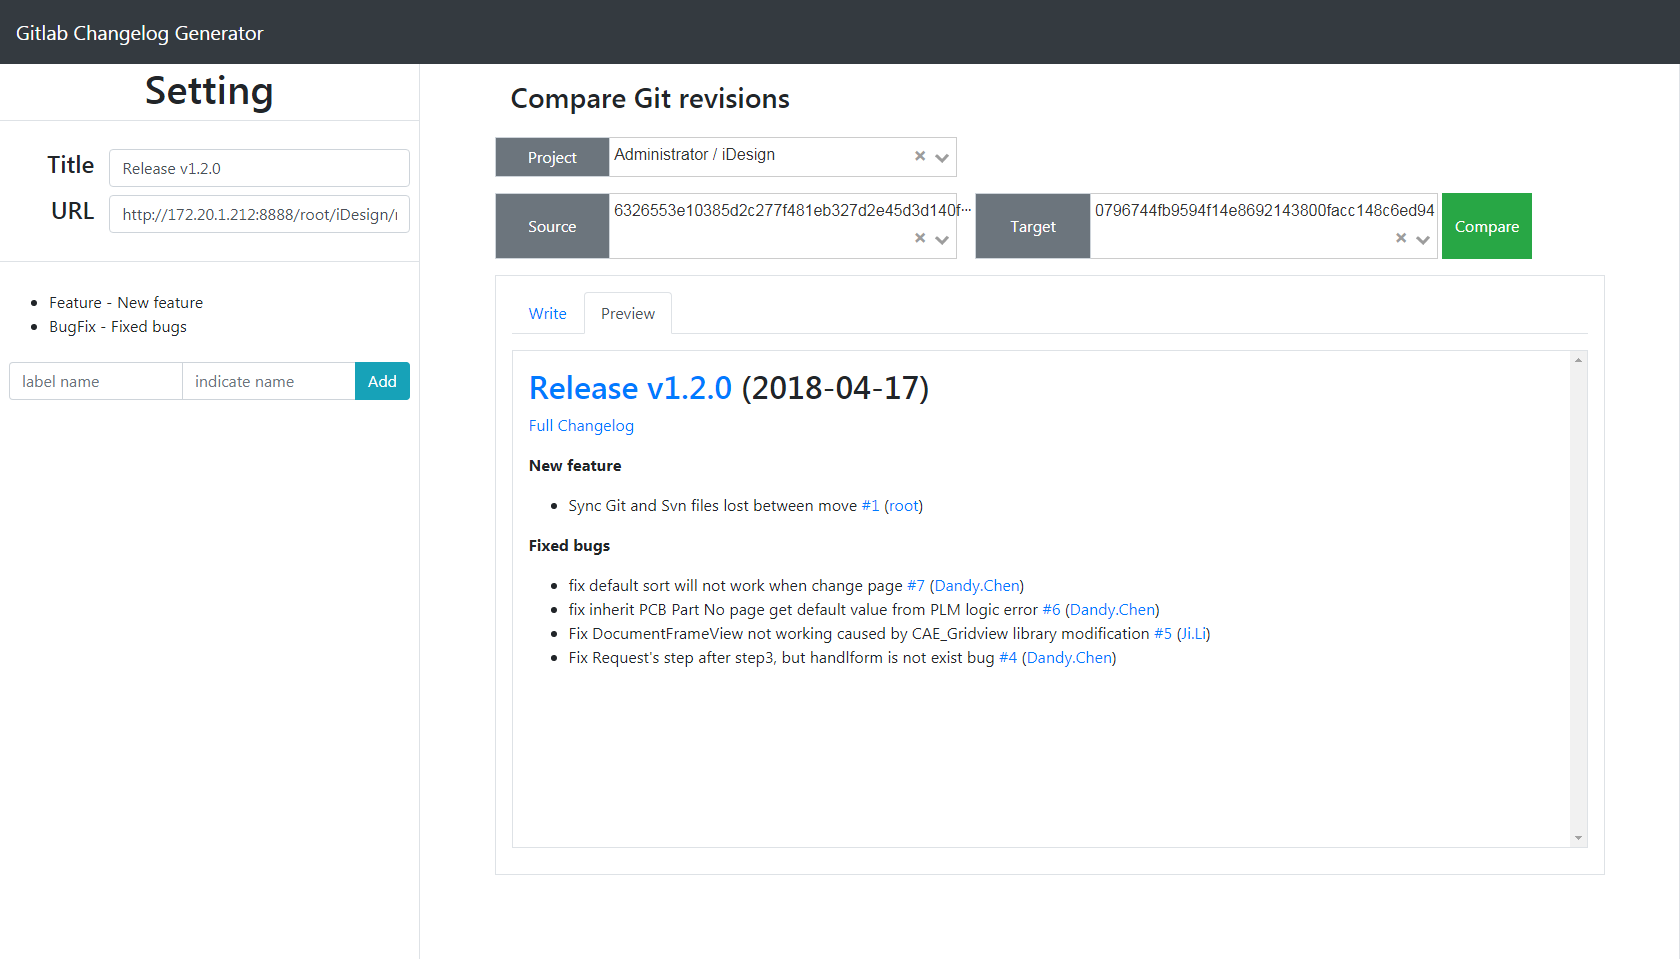
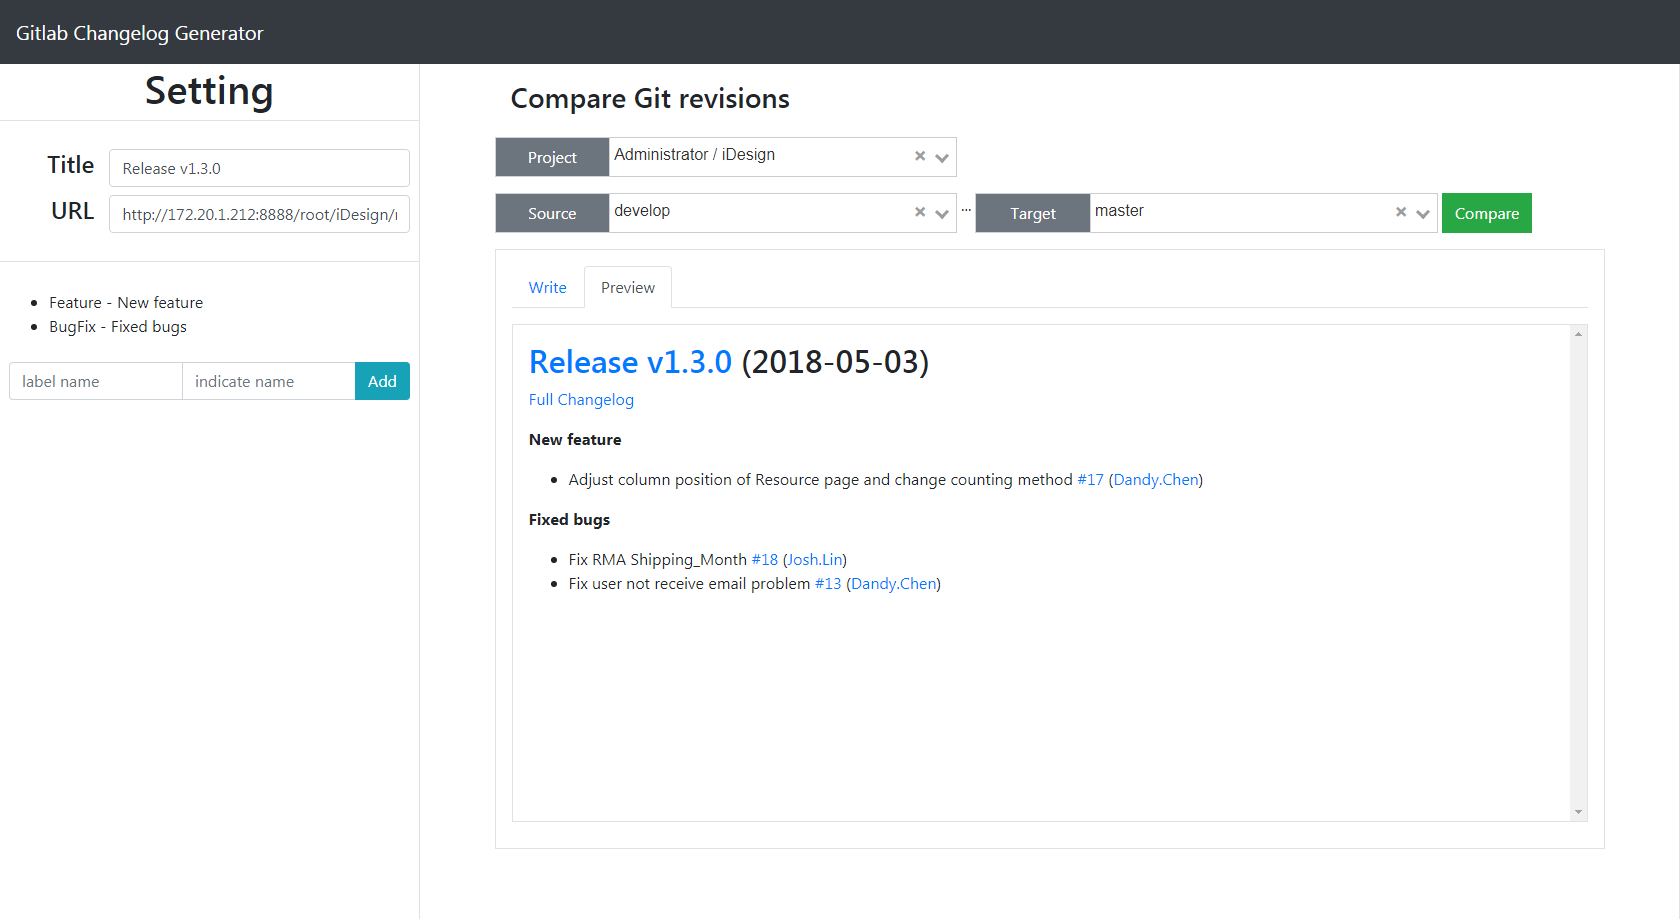
update README.md

diff --git a/README.md b/README.md
@@ -5,17 +5,15 @@ Generate gitlab release changlog
 
 ## Output example
 
-> ## [Release v1.2.0](https://github.com/ro1963855/gitlab-changelog-generator) (2018-04-17)
-> [Full Changelog](http://172.20.1.212:8888/root/iDesign/compare/6326553e10385d2c277f481eb327d2e45d3d140f...0796744fb9594f14e8692143800facc148c6ed94)
->
+> ## [Release v1.3.0](http://172.20.1.212:8888/root/iDesign/merge_requests/24) (2018-05-03)
+> [Full Changelog](http://172.20.1.212:8888/root/iDesign/compare/8321554fe6a514f3973a4ea71384272359878aeb...64cca9babea9fbd963373a9cc96b0281507db098)
+> 
 > **New feature**
-> - Sync Git and Svn files lost between move [#1](http://172.20.1.212:8888/root/iDesign/issues/1) ([root](http://172.20.1.212:8888/root))
->
+> - Adjust column position of Resource page and change counting method [#17](http://172.20.1.212:8888/root/iDesign/issues/17) ([Dandy.Chen](http://172.20.1.212:8888/Dandy.Chen))
+> 
 > **Fixed bugs**
-> - fix default sort will not work when change page [#7](http://172.20.1.212:8888/root/iDesign/issues/7) ([Dandy.Chen](http://172.20.1.212:8888/Dandy.Chen))
-> - fix inherit PCB Part No page get default value from PLM logic error [#6](http://172.20.1.212:8888/root/iDesign/issues/6) ([Dandy.Chen](http://172.20.1.212:8888/Dandy.Chen))
-> - Fix DocumentFrameView not working caused by CAE_Gridview library modification [#5](http://172.20.1.212:8888/root/iDesign/issues/5) ([Ji.Li](http://172.20.1.212:8888/Ji.Li))
-> - Fix Request's step after step3, but handlform is not exist bug [#4](http://172.20.1.212:8888/root/iDesign/issues/4) ([Dandy.Chen](http://172.20.1.212:8888/Dandy.Chen))
+> - Fix RMA Shipping_Month [#18](http://172.20.1.212:8888/root/iDesign/issues/18) ([Josh.Lin](http://172.20.1.212:8888/Josh.Lin))
+> - Fix user not receive email problem [#13](http://172.20.1.212:8888/root/iDesign/issues/13) ([Dandy.Chen](http://172.20.1.212:8888/Dandy.Chen))
 
 ## Usage
 *  download project from git
@@ -35,13 +33,13 @@ Example :
     },
     "default": {
         "project": {
-            "selected": 9
+            "selected": "Administrator / iDesign"       # Gitlab's group / project
         },
         "changelog": {
             "labelTitle": [
                 {
-                    "label": "Feature",
-                    "indicate": "New feature"
+                    "label": "Feature",                 # gitlab issue label
+                    "indicate": "New feature"           # markdown show name
                 },
                 {
                     "label": "BugFix",
